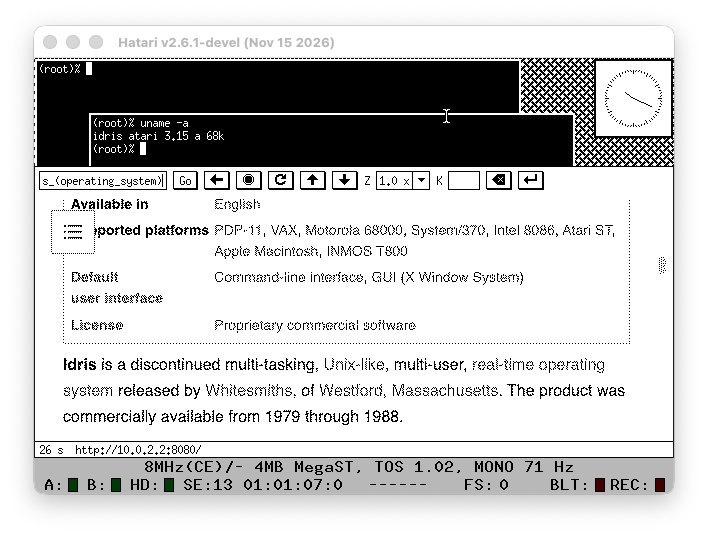
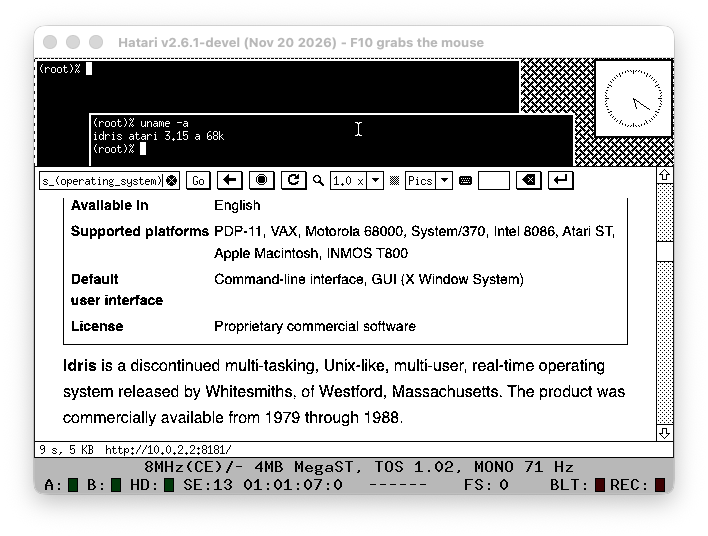
screenshots of 0.7 on idris, with uname -a
The ST's own screen and Hatari's window: uname -a in an xterm, and
Archaic 0.7 with Wikipedia's Idris article. AGENTS.md: the build sizes
of 0.7, in KB as the others.

diff --git a/AGENTS.md b/AGENTS.md
@@ -543,8 +543,9 @@ PATH=/opt/X11/bin:$PATH sh test/xshot.sh 127.0.0.1:7 shot.png 1 '%%' 127.0.0.1:8
   xstart puts `/usr/X/bin` on the search path. From a telnet login, type `/usr/X/bin/archaic`.
 - **Ctrl-Q** quits.
 - In the kit, your computer is `10.0.2.2` for Idris. So Archaic on Idris looks for WRP at `http://10.0.2.2:8080/`.
-- `screenshots/idris.png`: the ST's own screen, 640 x 400, black and white
-  (Archaic under the xterm, after three clicks on the ↓ button).
+- `screenshots/idris.png`: the ST's own screen, 640 x 400, black and white:
+  `uname -a` in the lower xterm, and Archaic under it (`=638x290+0+108`) with
+  Wikipedia's Idris article.
 
 ## Building in Idris
 
@@ -585,7 +586,7 @@ All 11 files (124 KB) take about 2 minutes.
 
 ```
 sh mkinc     # once per folder: the X10 headers
-sh mk        # compile and link: archaic, about 118 KB
+sh mk        # compile and link: archaic, about 126 KB
 ```
 
 With Hatari's fast-forward on, `sh mk` takes about 2.5 minutes.
@@ -733,7 +734,7 @@ Needs **gcc** (2.5.8 in `/usr/local/bin`: the FreeBee kit has it) and WIN/TCP.
 2. Build:
 
    ```
-   sh mkunixpc     # compile and link: archaic, about 66 KB
+   sh mkunixpc     # compile and link: archaic, about 67 KB
    ```
 
    It takes about 1 minute in FreeBee at turbo 10.
@@ -849,7 +850,7 @@ Needs Sun's C compiler, `cc` (the kit has it), and SunView's libraries in `/usr/
 2. Build:
 
    ```
-   sh mksunview    # compile and link: archaic, about 104 KB
+   sh mksunview    # compile and link: archaic, about 106 KB
    ```
 
    It takes about 6 s in the kit.
@@ -1006,7 +1007,7 @@ Needs HP's C compiler, `cc` (the kit has HP C A.09.73), and X11R5 (HP-UX 9 has i
 2. Build:
 
    ```
-   sh mkhpux       # compile and link: archaic, about 112 KB
+   sh mkhpux       # compile and link: archaic, about 115 KB
    ```
 
    It takes about 3 s in the kit.
